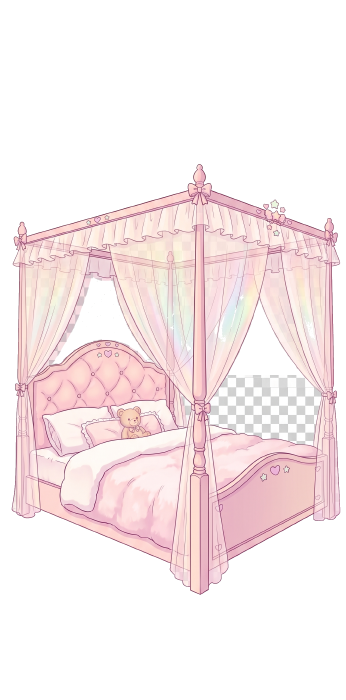
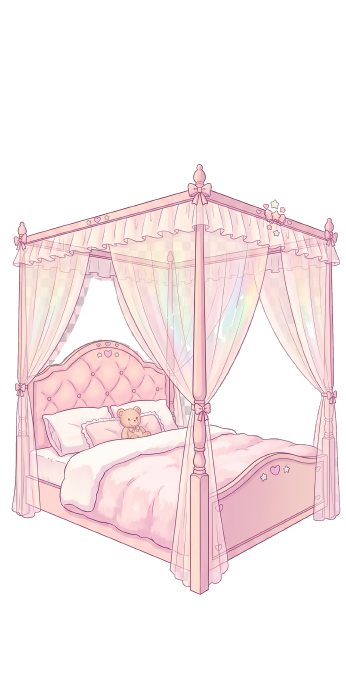
패드 핀치 줌으로 방 아이템 크기 조절, 터치 버튼 확대, 캐노피 침대 체커보드 잔여물 제거
- 두 손가락 핀치로 가구·반려동물 등 방 아이템 크기 조절 (드래그 이동과 충돌 방지)
- 터치 기기(pointer: coarse)에서 × 버튼·⤡ 핸들 크게 표시
- 바닥 기준 배치 아이템을 확대할 때 위치가 위로 튀던 버그 수정 (크기 적용 전 위치 고정)
- furniture_bed.png 커튼 사이에 남아 있던 체커보드 조각 제거 (ImgTool.RemoveNeutralPatch 추가)

Changed region(s): [[0.6069, 0.51, 0.9249, 0.63]]

diff --git a/joy.html b/joy.html
@@ -159,6 +159,10 @@
   .rc-body { display: inline-block; }
   .rc-resize-btn { display: none; position: absolute; bottom: -8px; right: -8px; width: 22px; height: 22px; border-radius: 50%; background: rgba(120,80,220,.92); color: #fff; font-size: .8rem; font-weight: 700; border: 1.5px solid #fff; cursor: nwse-resize; align-items: center; justify-content: center; z-index: 30; line-height: 1; touch-action: none; }
   .rc-draggable.selected .rc-resize-btn { display: flex; }
+  @media (pointer: coarse) {
+    .rc-del-btn { width: 30px; height: 30px; top: -12px; right: -12px; font-size: 1rem; }
+    .rc-resize-btn { width: 32px; height: 32px; bottom: -12px; right: -12px; font-size: 1.05rem; }
+  }
   .rc-draggable.selected .rc-item-emoji { filter: drop-shadow(0 0 8px rgba(255,200,80,.9)); transform: scale(1.1); }
 
   /* FX + dialogue */
@@ -1963,6 +1967,7 @@ function makeDraggable(el, container) {
   }
 
   function onStart(e) {
+    if (e.touches && e.touches.length > 1) return; // 두 손가락 = 핀치 크기조절
     e.preventDefault();
     e.stopPropagation();
     didDrag = false;
@@ -1994,6 +1999,7 @@ function makeDraggable(el, container) {
   }
 
   function onMove(e) {
+    if (e.touches && e.touches.length > 1) return; // 핀치 중에는 이동 안 함
     e.preventDefault();
     const { x, y } = getClient(e);
     if (Math.abs(x - startClientX) > 8 || Math.abs(y - startClientY) > 8) {
@@ -2042,13 +2048,14 @@ function itemScale(id) { const p = itemPositions[id]; return (p && p.s) ? p.s : 
 function setItemScale(el, container, s) {
   const id = el.dataset.id; if (!id) return;
   s = Math.round(Math.max(0.4, Math.min(3, s)) * 100) / 100;
-  const body = el.querySelector('.rc-body'); if (body) body.style.zoom = s;
+  // 위치는 확대/축소 전에 먼저 고정 (bottom 기준 배치 → top 기준으로 변환) 후 크기 적용
   const rect = container.getBoundingClientRect(), r = el.getBoundingClientRect();
   const prev = itemPositions[id] || {};
   const x = prev.x !== undefined ? prev.x : (r.left - rect.left) / rect.width * 100;
   const y = prev.y !== undefined ? prev.y : (r.top - rect.top) / rect.height * 100;
+  if (el.style.bottom && el.style.bottom !== 'auto') { el.style.top = y + '%'; el.style.bottom = 'auto'; el.style.left = x + '%'; }
   itemPositions[id] = { x, y, s };
-  if (el.style.bottom && el.style.bottom !== 'auto') { el.style.top = y + '%'; el.style.bottom = 'auto'; }
+  const body = el.querySelector('.rc-body'); if (body) body.style.zoom = s;
   return s;
 }
 function makeResizable(btn, container) {
@@ -2070,6 +2077,16 @@ function makeResizable(btn, container) {
   btn.addEventListener('mousedown', onStart);
   btn.addEventListener('touchstart', onStart, { passive: false });
   btn.addEventListener('click', e => e.stopPropagation());
+  // 두 손가락 핀치로 크기 조절 (패드)
+  let pinchStartDist = 0, pinchStartS = 1, pinching = false;
+  const dist = t => Math.hypot(t[0].clientX - t[1].clientX, t[0].clientY - t[1].clientY);
+  el.addEventListener('touchstart', e => {
+    if (e.touches.length === 2) { e.preventDefault(); e.stopPropagation(); pinching = true; pinchStartDist = dist(e.touches); pinchStartS = itemScale(el.dataset.id); }
+  }, { passive: false });
+  el.addEventListener('touchmove', e => {
+    if (pinching && e.touches.length === 2) { e.preventDefault(); e.stopPropagation(); setItemScale(el, container, pinchStartS * dist(e.touches) / pinchStartDist); }
+  }, { passive: false });
+  el.addEventListener('touchend', e => { if (pinching && e.touches.length < 2) { pinching = false; saveData(); } });
   // 마우스휠로도 크기 조절
   el.addEventListener('wheel', e => { e.preventDefault(); setItemScale(el, container, itemScale(el.dataset.id) + (e.deltaY < 0 ? 0.05 : -0.05)); saveData(); }, { passive: false });
 }

diff --git a/lily.html b/lily.html
@@ -159,6 +159,10 @@
   .rc-body { display: inline-block; }
   .rc-resize-btn { display: none; position: absolute; bottom: -8px; right: -8px; width: 22px; height: 22px; border-radius: 50%; background: rgba(120,80,220,.92); color: #fff; font-size: .8rem; font-weight: 700; border: 1.5px solid #fff; cursor: nwse-resize; align-items: center; justify-content: center; z-index: 30; line-height: 1; touch-action: none; }
   .rc-draggable.selected .rc-resize-btn { display: flex; }
+  @media (pointer: coarse) {
+    .rc-del-btn { width: 30px; height: 30px; top: -12px; right: -12px; font-size: 1rem; }
+    .rc-resize-btn { width: 32px; height: 32px; bottom: -12px; right: -12px; font-size: 1.05rem; }
+  }
   .rc-draggable.selected .rc-item-emoji { filter: drop-shadow(0 0 8px rgba(255,200,80,.9)); transform: scale(1.1); }
 
   /* FX + dialogue */
@@ -1963,6 +1967,7 @@ function makeDraggable(el, container) {
   }
 
   function onStart(e) {
+    if (e.touches && e.touches.length > 1) return; // 두 손가락 = 핀치 크기조절
     e.preventDefault();
     e.stopPropagation();
     didDrag = false;
@@ -1994,6 +1999,7 @@ function makeDraggable(el, container) {
   }
 
   function onMove(e) {
+    if (e.touches && e.touches.length > 1) return; // 핀치 중에는 이동 안 함
     e.preventDefault();
     const { x, y } = getClient(e);
     if (Math.abs(x - startClientX) > 8 || Math.abs(y - startClientY) > 8) {
@@ -2042,13 +2048,14 @@ function itemScale(id) { const p = itemPositions[id]; return (p && p.s) ? p.s : 
 function setItemScale(el, container, s) {
   const id = el.dataset.id; if (!id) return;
   s = Math.round(Math.max(0.4, Math.min(3, s)) * 100) / 100;
-  const body = el.querySelector('.rc-body'); if (body) body.style.zoom = s;
+  // 위치는 확대/축소 전에 먼저 고정 (bottom 기준 배치 → top 기준으로 변환) 후 크기 적용
   const rect = container.getBoundingClientRect(), r = el.getBoundingClientRect();
   const prev = itemPositions[id] || {};
   const x = prev.x !== undefined ? prev.x : (r.left - rect.left) / rect.width * 100;
   const y = prev.y !== undefined ? prev.y : (r.top - rect.top) / rect.height * 100;
+  if (el.style.bottom && el.style.bottom !== 'auto') { el.style.top = y + '%'; el.style.bottom = 'auto'; el.style.left = x + '%'; }
   itemPositions[id] = { x, y, s };
-  if (el.style.bottom && el.style.bottom !== 'auto') { el.style.top = y + '%'; el.style.bottom = 'auto'; }
+  const body = el.querySelector('.rc-body'); if (body) body.style.zoom = s;
   return s;
 }
 function makeResizable(btn, container) {
@@ -2070,6 +2077,16 @@ function makeResizable(btn, container) {
   btn.addEventListener('mousedown', onStart);
   btn.addEventListener('touchstart', onStart, { passive: false });
   btn.addEventListener('click', e => e.stopPropagation());
+  // 두 손가락 핀치로 크기 조절 (패드)
+  let pinchStartDist = 0, pinchStartS = 1, pinching = false;
+  const dist = t => Math.hypot(t[0].clientX - t[1].clientX, t[0].clientY - t[1].clientY);
+  el.addEventListener('touchstart', e => {
+    if (e.touches.length === 2) { e.preventDefault(); e.stopPropagation(); pinching = true; pinchStartDist = dist(e.touches); pinchStartS = itemScale(el.dataset.id); }
+  }, { passive: false });
+  el.addEventListener('touchmove', e => {
+    if (pinching && e.touches.length === 2) { e.preventDefault(); e.stopPropagation(); setItemScale(el, container, pinchStartS * dist(e.touches) / pinchStartDist); }
+  }, { passive: false });
+  el.addEventListener('touchend', e => { if (pinching && e.touches.length < 2) { pinching = false; saveData(); } });
   // 마우스휠로도 크기 조절
   el.addEventListener('wheel', e => { e.preventDefault(); setItemScale(el, container, itemScale(el.dataset.id) + (e.deltaY < 0 ? 0.05 : -0.05)); saveData(); }, { passive: false });
 }

diff --git a/lily2.html b/lily2.html
@@ -159,6 +159,10 @@
   .rc-body { display: inline-block; }
   .rc-resize-btn { display: none; position: absolute; bottom: -8px; right: -8px; width: 22px; height: 22px; border-radius: 50%; background: rgba(120,80,220,.92); color: #fff; font-size: .8rem; font-weight: 700; border: 1.5px solid #fff; cursor: nwse-resize; align-items: center; justify-content: center; z-index: 30; line-height: 1; touch-action: none; }
   .rc-draggable.selected .rc-resize-btn { display: flex; }
+  @media (pointer: coarse) {
+    .rc-del-btn { width: 30px; height: 30px; top: -12px; right: -12px; font-size: 1rem; }
+    .rc-resize-btn { width: 32px; height: 32px; bottom: -12px; right: -12px; font-size: 1.05rem; }
+  }
   .rc-draggable.selected .rc-item-emoji { filter: drop-shadow(0 0 8px rgba(255,200,80,.9)); transform: scale(1.1); }
 
   /* FX + dialogue */
@@ -1963,6 +1967,7 @@ function makeDraggable(el, container) {
   }
 
   function onStart(e) {
+    if (e.touches && e.touches.length > 1) return; // 두 손가락 = 핀치 크기조절
     e.preventDefault();
     e.stopPropagation();
     didDrag = false;
@@ -1994,6 +1999,7 @@ function makeDraggable(el, container) {
   }
 
   function onMove(e) {
+    if (e.touches && e.touches.length > 1) return; // 핀치 중에는 이동 안 함
     e.preventDefault();
     const { x, y } = getClient(e);
     if (Math.abs(x - startClientX) > 8 || Math.abs(y - startClientY) > 8) {
@@ -2042,13 +2048,14 @@ function itemScale(id) { const p = itemPositions[id]; return (p && p.s) ? p.s : 
 function setItemScale(el, container, s) {
   const id = el.dataset.id; if (!id) return;
   s = Math.round(Math.max(0.4, Math.min(3, s)) * 100) / 100;
-  const body = el.querySelector('.rc-body'); if (body) body.style.zoom = s;
+  // 위치는 확대/축소 전에 먼저 고정 (bottom 기준 배치 → top 기준으로 변환) 후 크기 적용
   const rect = container.getBoundingClientRect(), r = el.getBoundingClientRect();
   const prev = itemPositions[id] || {};
   const x = prev.x !== undefined ? prev.x : (r.left - rect.left) / rect.width * 100;
   const y = prev.y !== undefined ? prev.y : (r.top - rect.top) / rect.height * 100;
+  if (el.style.bottom && el.style.bottom !== 'auto') { el.style.top = y + '%'; el.style.bottom = 'auto'; el.style.left = x + '%'; }
   itemPositions[id] = { x, y, s };
-  if (el.style.bottom && el.style.bottom !== 'auto') { el.style.top = y + '%'; el.style.bottom = 'auto'; }
+  const body = el.querySelector('.rc-body'); if (body) body.style.zoom = s;
   return s;
 }
 function makeResizable(btn, container) {
@@ -2070,6 +2077,16 @@ function makeResizable(btn, container) {
   btn.addEventListener('mousedown', onStart);
   btn.addEventListener('touchstart', onStart, { passive: false });
   btn.addEventListener('click', e => e.stopPropagation());
+  // 두 손가락 핀치로 크기 조절 (패드)
+  let pinchStartDist = 0, pinchStartS = 1, pinching = false;
+  const dist = t => Math.hypot(t[0].clientX - t[1].clientX, t[0].clientY - t[1].clientY);
+  el.addEventListener('touchstart', e => {
+    if (e.touches.length === 2) { e.preventDefault(); e.stopPropagation(); pinching = true; pinchStartDist = dist(e.touches); pinchStartS = itemScale(el.dataset.id); }
+  }, { passive: false });
+  el.addEventListener('touchmove', e => {
+    if (pinching && e.touches.length === 2) { e.preventDefault(); e.stopPropagation(); setItemScale(el, container, pinchStartS * dist(e.touches) / pinchStartDist); }
+  }, { passive: false });
+  el.addEventListener('touchend', e => { if (pinching && e.touches.length < 2) { pinching = false; saveData(); } });
   // 마우스휠로도 크기 조절
   el.addEventListener('wheel', e => { e.preventDefault(); setItemScale(el, container, itemScale(el.dataset.id) + (e.deltaY < 0 ? 0.05 : -0.05)); saveData(); }, { passive: false });
 }

diff --git a/lily_tools/ImgTool.cs b/lily_tools/ImgTool.cs
@@ -216,6 +216,66 @@ public static class ImgTool
         }
     }
 
+    // Remove an enclosed checkerboard patch: find neutral mid-gray pixels (checker dark squares, lum in [grayLo,grayHi]),
+    // take their bbox (+pad), and clear every neutral light pixel (chroma<=chromaTol, lum>=lightLo) inside that bbox.
+    public static string RemoveNeutralPatch(string src, string dst, int grayLo, int grayHi, int chromaTol, int lightLo, int pad, int minGrayPixels)
+    {
+        using (var bmp = new Bitmap(src))
+        {
+            int stride; var p = GetBytes(bmp, out stride);
+            int w = bmp.Width, h = bmp.Height;
+            // 1) locate gray-square pixels
+            var isGray = new bool[w * h]; int count = 0;
+            for (int y = 0; y < h; y++) for (int x = 0; x < w; x++)
+            {
+                int i = y * stride + x * 4; if (p[i + 3] < 200) continue;
+                int b = p[i], g = p[i + 1], r = p[i + 2];
+                int chroma = Math.Max(r, Math.Max(g, b)) - Math.Min(r, Math.Min(g, b)); int lum = (r + g + b) / 3;
+                if (chroma <= chromaTol && lum >= grayLo && lum <= grayHi) { isGray[y * w + x] = true; count++; }
+            }
+            if (count < minGrayPixels) return "no gray patch found (" + count + ")";
+            // 2) largest connected component of gray pixels (dilated by 1 so squares connect diagonally is not needed; use 8-neighbour)
+            var comp = new int[w * h]; int nc = 0; var areas = new List<int> { 0 }; var boxes = new List<int[]> { null };
+            int[] dx8 = { 1, -1, 0, 0, 1, 1, -1, -1 }, dy8 = { 0, 0, 1, -1, 1, -1, 1, -1 };
+            for (int s = 0; s < w * h; s++)
+            {
+                if (!isGray[s] || comp[s] != 0) continue;
+                nc++; areas.Add(0); var bx = new[] { w, h, -1, -1 }; boxes.Add(bx);
+                var st = new Stack<int>(); st.Push(s); comp[s] = nc;
+                while (st.Count > 0)
+                {
+                    int idx = st.Pop(); areas[nc]++; int cx = idx % w, cy = idx / w;
+                    if (cx < bx[0]) bx[0] = cx; if (cy < bx[1]) bx[1] = cy; if (cx > bx[2]) bx[2] = cx; if (cy > bx[3]) bx[3] = cy;
+                    // checker squares are separated by light squares: allow jumps up to 'gap' pixels along axes
+                    for (int d = 0; d < 8; d++)
+                    {
+                        for (int step = 1; step <= 6; step++)
+                        {
+                            int nx = cx + dx8[d] * step, ny = cy + dy8[d] * step;
+                            if (nx < 0 || ny < 0 || nx >= w || ny >= h) break;
+                            int ni = ny * w + nx;
+                            if (isGray[ni] && comp[ni] == 0) { comp[ni] = nc; st.Push(ni); break; }
+                        }
+                    }
+                }
+            }
+            int best = 1; for (int k = 2; k <= nc; k++) if (areas[k] > areas[best]) best = k;
+            var box = boxes[best];
+            int x0 = Math.Max(0, box[0] - pad), y0 = Math.Max(0, box[1] - pad), x1 = Math.Min(w - 1, box[2] + pad), y1 = Math.Min(h - 1, box[3] + pad);
+            // 3) clear neutral pixels inside bbox
+            int cleared = 0;
+            for (int y = y0; y <= y1; y++) for (int x = x0; x <= x1; x++)
+            {
+                int i = y * stride + x * 4; if (p[i + 3] == 0) continue;
+                int b = p[i], g = p[i + 1], r = p[i + 2];
+                int chroma = Math.Max(r, Math.Max(g, b)) - Math.Min(r, Math.Min(g, b)); int lum = (r + g + b) / 3;
+                if (chroma <= chromaTol && lum >= lightLo) { p[i + 3] = 0; cleared++; }
+            }
+            using (var outBmp = FromBytes(p, w, h, stride)) outBmp.Save(dst, ImageFormat.Png);
+            return string.Format("gray px {0}, comps {1}, patch bbox x{2}-{3} y{4}-{5} (area {6}), cleared {7}px", count, nc, x0, x1, y0, y1, areas[best], cleared);
+        }
+    }
+
     // Draw a garland string through the top of each opaque component (stars), left to right.
     public static string DrawString(string src, string dst, int lineWidth, int r, int g, int b, int extraTopPad)
     {
